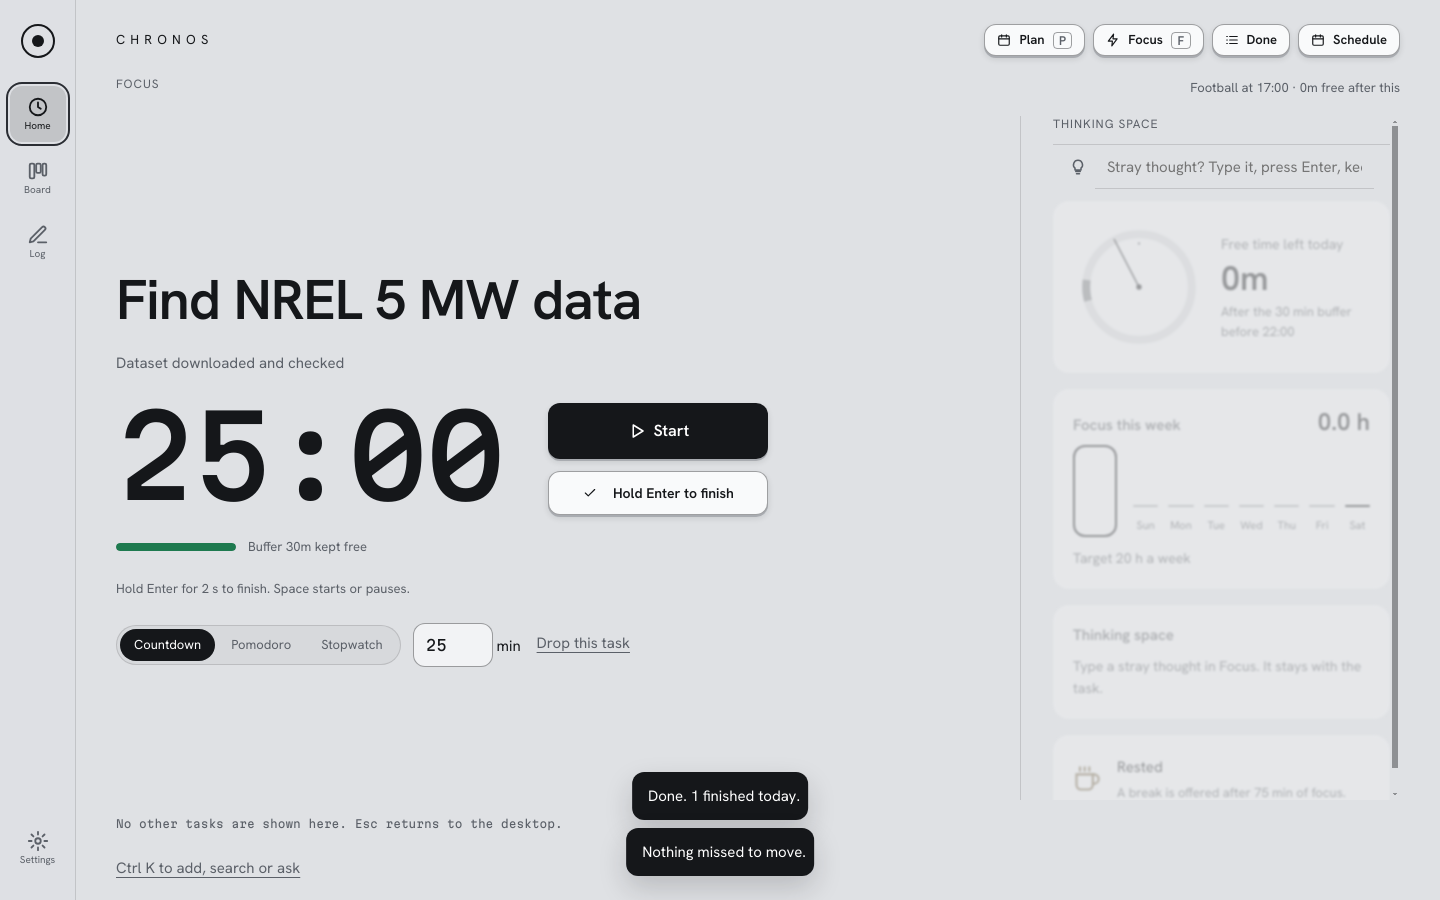
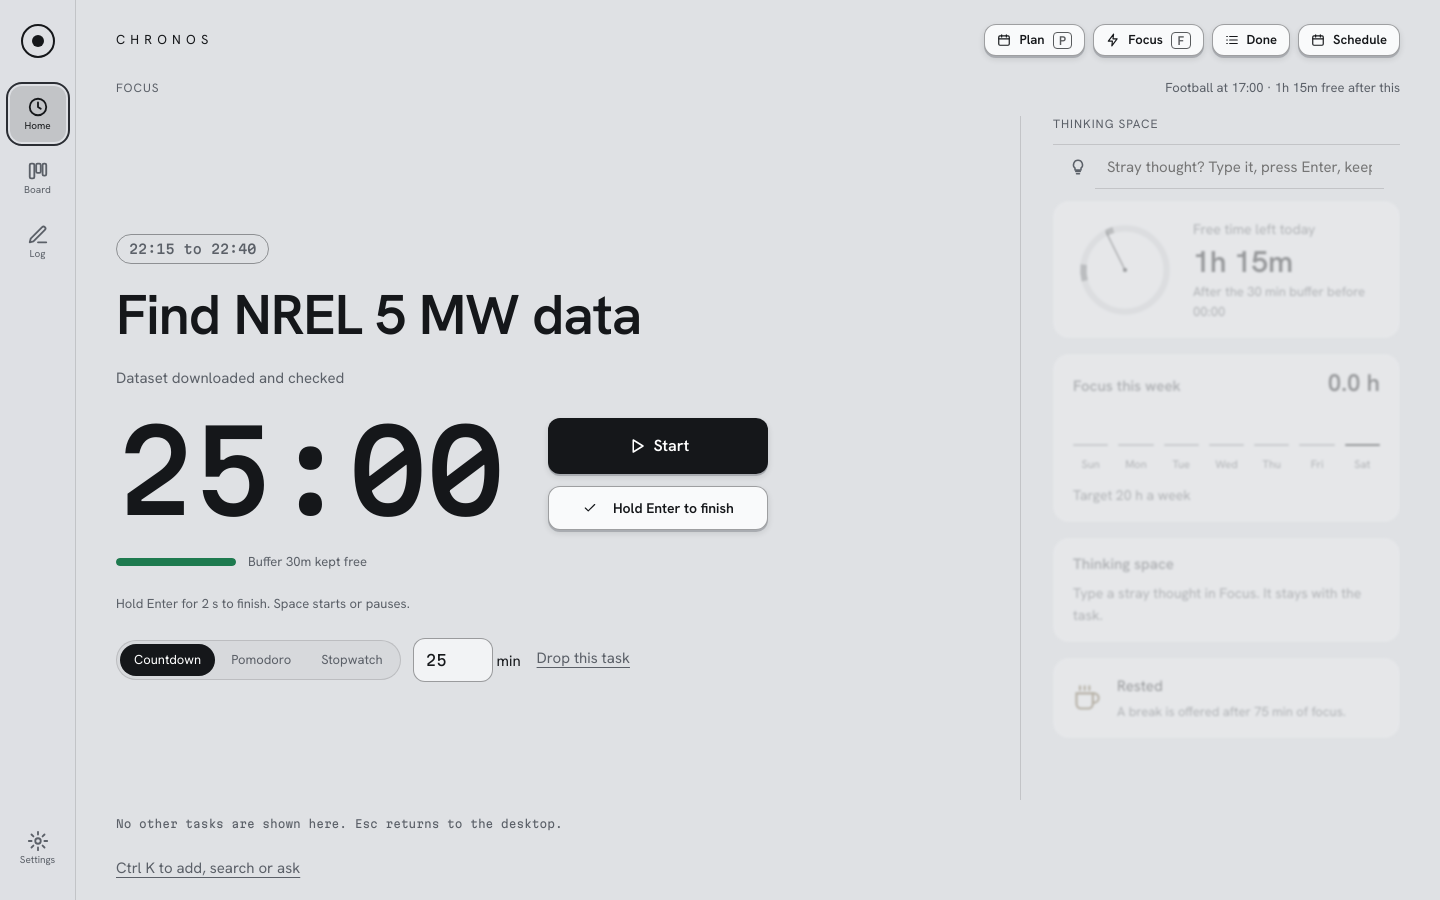
feat: checkpoint C - UI rebuild on theme tokens (home, focus, runway DnD, planning, widgets, moments)
Claude-Session: https://claude.ai/code/session_018cJn4UApyo1Ujqi9oVbNq8

diff --git a/src/renderer/styles/screens.css b/src/renderer/styles/screens.css
@@ -39,16 +39,16 @@ body { background-color: var(--c-ground); }
 /* ---- Widgets ---- */
 .widgets { display: flex; flex-direction: column; gap: 16px; min-height: 0; transition: opacity var(--dur-base) var(--ease), filter var(--dur-base) var(--ease); }
 .widgets.dim { opacity: var(--focus-widget-opacity); filter: blur(var(--focus-widget-blur)) saturate(.4); pointer-events: none; }
-.widget { border: 1px solid var(--c-line); border-radius: var(--r-lg); background: var(--c-panel); padding: 20px; display: flex; flex-direction: column; gap: 10px; }
+.widget { border: 1px solid var(--c-line); border-radius: var(--r-lg); background: var(--c-panel); padding: 16px 20px; display: flex; flex-direction: column; gap: 8px; }
 .widget h2 { font: 600 15px/20px var(--font-text); color: var(--c-text-2); }
 .widget p { font-size: 14px; line-height: 22px; }
 .widget p.first { color: var(--c-text); }
 .w-day, .w-wellness { flex-direction: row; align-items: center; gap: 16px; }
-.w-day svg { width: 132px; height: 132px; flex: none; }
+.w-day svg { width: 104px; height: 104px; flex: none; }
 .w-body { display: flex; flex-direction: column; gap: 4px; min-width: 0; }
 .w-label { font-size: 14px; color: var(--c-text-2); }
 .w-label.strong { font-size: 15px; color: var(--c-text); }
-.w-big { font: 600 34px/1.1 var(--font-display); font-variant-numeric: var(--num-variant); }
+.w-big { font: 600 30px/1.1 var(--font-display); font-variant-numeric: var(--num-variant); }
 .w-big.sm { font-size: 24px; }
 .w-sub { font-size: 13px; line-height: 20px; color: var(--c-text-3); }
 .w-head { display: flex; justify-content: space-between; align-items: baseline; }
@@ -62,13 +62,13 @@ body { background-color: var(--c-ground); }
 .dial-fill { fill: none; stroke: var(--c-accent-hover); stroke-width: 3; stroke-linecap: round; transition: stroke-dasharray 1.2s var(--ease); }
 .dial-hand { stroke: var(--c-now); stroke-width: 2; }
 .dial-pivot { fill: var(--c-now); }
-.w-chart { display: flex; gap: 16px; align-items: flex-end; height: 92px; }
+.w-chart { display: flex; gap: 16px; align-items: flex-end; height: 72px; }
 .bars { flex: 1; display: grid; grid-template-columns: repeat(7, minmax(0, 1fr)); gap: 10px; height: 100%; }
 .bar-col { display: flex; flex-direction: column; align-items: center; justify-content: flex-end; gap: 6px; height: 100%; }
 .bar-col i { display: block; width: 100%; border-radius: 4px; background: color-mix(in srgb, var(--c-accent) 35%, transparent); max-height: calc(100% - 20px); }
 .bar-col i.today { background: var(--c-accent); }
 .bar-col span { font-size: 11px; color: var(--c-text-3); }
-.cell { position: relative; width: 44px; height: 100%; border: 2px solid var(--c-accent); border-radius: 12px; overflow: hidden; flex: none; }
+.cell { position: relative; width: 28px; height: 100%; border: 2px solid var(--c-accent); border-radius: 12px; overflow: hidden; flex: none; }
 .cell i { position: absolute; left: 4px; right: 4px; bottom: 4px; border-radius: 7px; background: linear-gradient(0deg, var(--c-accent), var(--c-accent-hover)); transition: height 1.2s var(--ease); }
 .w-momentum.ignited { border-color: var(--c-warn); }
 .w-momentum.ignited .w-sub { color: var(--c-warn); }
@@ -79,7 +79,7 @@ body { background-color: var(--c-ground); }
 
 /* ---- Focus ---- */
 .focus { flex: 1; min-height: 0; display: grid; grid-template-columns: minmax(0, 1fr) 380px; grid-template-rows: auto minmax(0, 1fr) auto; gap: 16px 56px; overflow: hidden auto; }
-.focus-top { grid-column: 1 / -1; display: flex; justify-content: space-between; gap: 16px; font-size: 13px; }
+.focus-top { grid-column: 1 / -1; display: flex; align-items: baseline; justify-content: space-between; gap: 16px; font-size: 13px; }
 .stage { align-self: center; display: flex; flex-direction: column; align-items: flex-start; gap: 20px; padding: 0; max-width: 980px; min-width: 0; }
 .focus-title { font: 600 clamp(30px, 4vw, 56px)/1.1 var(--font-display); letter-spacing: -.02em; overflow-wrap: anywhere; }
 .focus-fc { color: var(--c-text-2); max-width: 60ch; }
@@ -182,8 +182,13 @@ html[data-reactive-data="on"]:not([data-motion="off"]) .w-momentum.ignited .w-su
 [data-signature="slab-monolith"] .btn-ghost { background: transparent; border-width: 1.5px; }
 /* Gargantua: the ring is the page; title under it, widgets as a quiet strip. */
 [data-signature="accretion-ring"] .nowscreen { grid-template-columns: minmax(0, 1fr); grid-template-rows: auto minmax(0, 1fr) auto; }
-[data-signature="accretion-ring"] .now-hero { border: 0; background: transparent; align-items: center; padding: 0; flex-direction: column-reverse; text-align: center; }
-[data-signature="accretion-ring"] .now-timer { flex-direction: column; flex: none; gap: 16px; }
+[data-signature="accretion-ring"] .now-hero { border: 0; background: transparent; align-items: center; padding: 0; gap: 20px; text-align: center; }
+[data-signature="accretion-ring"] .now-timer { display: contents; }
+[data-signature="accretion-ring"] .now-hero .sig { order: 1; }
+[data-signature="accretion-ring"] .now-head { order: 2; }
+[data-signature="accretion-ring"] .now-actions { order: 3; }
+[data-signature="accretion-ring"] .now-next { order: 4; }
+[data-signature="accretion-ring"] .now-clock { font-size: 15px; font-weight: 400; color: var(--c-text-2); }
 [data-signature="accretion-ring"] .now-head { flex-direction: column; align-items: center; gap: 8px; }
 [data-signature="accretion-ring"] .now-title { font-weight: 300; font-size: clamp(24px, 2.4vw, 34px); }
 [data-signature="accretion-ring"] .now-actions { flex-direction: row; justify-content: center; flex-wrap: wrap; min-width: 0; }
@@ -208,11 +213,18 @@ html[data-reactive-data="on"]:not([data-motion="off"]) .w-momentum.ignited .w-su
   .rail-end { margin-top: 0; }
   .rail-btn { min-height: 48px; width: 64px; }
   .home-main { padding: 16px 16px 8px; gap: 12px; }
+  .top { flex-wrap: wrap; gap: 8px; }
+  .top-nav { flex-wrap: wrap; justify-content: flex-start; }
   .top-nav .btn { padding: 0 10px; }
   .top-nav .btn kbd { display: none; }
   .nowscreen, [data-signature] .nowscreen { grid-template-columns: minmax(0, 1fr); grid-template-rows: auto; overflow-y: auto; }
   .now-hero, [data-signature="ticking-digits"] .now-hero { padding: 20px; }
-  .now-timer { gap: 20px; }
+  .now-timer, .timer-row { gap: 20px; flex: none; }
+  .sig-slab-monolith { flex-direction: column; align-items: flex-start; }
+  .sig { max-width: 100%; }
+  .now-hero { overflow: visible; }
+  .nowscreen { grid-auto-rows: auto; }
+  .now-clock { font-size: 26px; }
   .now-actions, .controls { min-width: 0; width: 100%; }
   .focus { grid-template-columns: minmax(0, 1fr); grid-template-rows: auto; gap: 16px; }
   .focus-side { padding-left: 0; border-left: 0; }
@@ -222,3 +234,5 @@ html[data-reactive-data="on"]:not([data-motion="off"]) .w-momentum.ignited .w-su
   .runway .rw { margin-right: 8px; padding-left: 52px; }
   [data-signature="ticking-digits"] .now-actions { flex-direction: column; }
 }
+
+.btn kbd { color: inherit; border-color: currentColor; opacity: .7; }

diff --git a/src/renderer/home/Home.tsx b/src/renderer/home/Home.tsx
@@ -36,7 +36,10 @@ type Layer = 'drawer' | 'shelf' | 'trash' | 'schedule' | 'editor' | 'palette';
 // Screens built by other parts of the app are mounted by glob so a missing file is a placeholder, not a build break.
 const boards = import.meta.glob('../board/Board.tsx');
 const palettes = import.meta.glob('../palette/Palette.tsx');
-const LazyBoard = lazy(() => (boards['../board/Board.tsx'] ? (boards['../board/Board.tsx']() as Promise<{ default?: ComponentType; Board: ComponentType }>).then((m) => ({ default: m.Board ?? m.default! })) : Promise.resolve({ default: () => <Placeholder name="Board" /> })));
+const logs = import.meta.glob('../log/Log.tsx');
+type BoardP = { onOpenLog?: (projectId: string) => void; onEnterFocus?: (taskId: string) => void };
+const LazyBoard = lazy(() => (boards['../board/Board.tsx'] ? (boards['../board/Board.tsx']() as Promise<{ Board: ComponentType<BoardP> }>).then((m) => ({ default: m.Board })) : Promise.resolve({ default: (_p: BoardP) => <Placeholder name="Board" /> })));
+const LazyLog = lazy(() => (logs['../log/Log.tsx'] ? (logs['../log/Log.tsx']() as Promise<{ Log: ComponentType<{ projectId?: string | null }> }>).then((m) => ({ default: m.Log })) : Promise.resolve({ default: (_p: { projectId?: string | null }) => <Placeholder name="Log" /> })));
 const LazyPalette = lazy(() => (palettes['../palette/Palette.tsx'] ? (palettes['../palette/Palette.tsx']() as Promise<{ Palette: ComponentType<{ open: boolean; onClose: () => void }> }>).then((m) => ({ default: m.Palette })) : Promise.resolve({ default: () => null })));
 
 function Placeholder({ name }: { name: string }) {
@@ -58,6 +61,7 @@ export function Home({ snap, revealed }: { snap: Snapshot; revealed: boolean }) 
   const [guided, setGuided] = useState(false);
   const [editEventId, setEditEventId] = useState<string | null>(null);
   const [range, setRange] = useState<'full' | 'next6'>('full');
+  const [logProject, setLogProject] = useState<string | null>(null);
   const m = dayModel(d, now, range);
   const top = layers.at(-1);
   const open = (l: Layer) => setLayers((x) => [...x.filter((y) => y !== l), l]);
@@ -96,6 +100,7 @@ export function Home({ snap, revealed }: { snap: Snapshot; revealed: boolean }) 
       }
       if (e.ctrlKey && !e.altKey && e.key.toLowerCase() === 'l') {
         e.preventDefault();
+        setLogProject(null);
         setScreen('log');
         return;
       }
@@ -154,9 +159,17 @@ export function Home({ snap, revealed }: { snap: Snapshot; revealed: boolean }) 
   ) : screen === 'settings' ? (
     <Settings snap={snap} onSchedule={() => open('schedule')} onClose={() => setScreen('home')} />
   ) : screen === 'board' ? (
-    <Suspense fallback={null}><LazyBoard /></Suspense>
+    <Suspense fallback={null}>
+      <LazyBoard
+        onOpenLog={(id) => {
+          setLogProject(id);
+          setScreen('log');
+        }}
+        onEnterFocus={() => setScreen('focus')}
+      />
+    </Suspense>
   ) : screen === 'log' ? (
-    <Placeholder name="Log" />
+    <Suspense fallback={null}><LazyLog projectId={logProject} /></Suspense>
   ) : screen === 'focus' ? (
     <FocusCore d={d} m={m} now={now} deviceId={snap.device.deviceId} onPlan={() => setScreen('plan')} />
   ) : screen === 'plan' ? (
@@ -173,7 +186,7 @@ export function Home({ snap, revealed }: { snap: Snapshot; revealed: boolean }) 
 
   return (
     <div className={`home${revealed ? ' revealed' : ''}`} data-screen={screen}>
-      <Rail screen={screen} onGo={(x) => setScreen(x)} />
+      <Rail screen={screen} onGo={(x) => (x === 'log' && setLogProject(null), setScreen(x))} />
       <div className="home-main">
         <header className="top">
           <div className="brand-row">

diff --git a/tests/main/contrast.test.ts b/tests/main/contrast.test.ts
@@ -1,35 +1,32 @@
-// WCAG 2.2 AA contrast for the token pairs the UI actually uses, in both themes (§9.12).
+// Colours come from the theme engine now (see tests/theme for the theme contrast rules). What is
+// left in tokens.css is the tag palette: data colours, which must read as marks (3:1) on the ground
+// of every launch theme in the same mode.
 import fs from 'node:fs';
 import { describe, expect, it } from 'vitest';
+import { contrast, parseColor } from '../../src/core/theme/color';
+import { findTheme } from '../../src/renderer/themes';
 
 const css = fs.readFileSync('src/renderer/public/tokens.css', 'utf8');
-
-function block(selector: string): Record<string, string> {
+function tags(selector: string): Record<string, string> {
   const start = css.indexOf(`${selector} {`);
   const body = css.slice(start, css.indexOf('}', start));
-  return Object.fromEntries([...body.matchAll(/--([\w-]+):\s*(#[0-9A-Fa-f]{6})/g)].map((m) => [m[1] as string, m[2] as string]));
+  return Object.fromEntries([...body.matchAll(/--(tag\d):\s*(#[0-9A-Fa-f]{6})/g)].map((m) => [m[1] as string, m[2] as string]));
 }
+const palettes = { dark: tags(':root[data-mode="dark"]'), light: tags(':root[data-mode="light"]') };
+const THEMES = ['tactile-instrument', 'stark-workshop', 'tars-gargantua/day', 'tars-gargantua/night'];
 
-function luminance(hex: string): number {
-  const [r, g, b] = [1, 3, 5].map((i) => parseInt(hex.slice(i, i + 2), 16) / 255).map((c) => (c <= 0.03928 ? c / 12.92 : ((c + 0.055) / 1.055) ** 2.4));
-  return 0.2126 * (r as number) + 0.7152 * (g as number) + 0.0722 * (b as number);
-}
-const ratio = (a: string, b: string) => {
-  const [hi, lo] = [luminance(a), luminance(b)].sort((x, y) => y - x) as [number, number];
-  return (hi + 0.05) / (lo + 0.05);
-};
-
-const dark = block(':root');
-const light = { ...dark, ...block(':root[data-theme="light"]') };
-const TEXT: [string, string][] = [['text', 'bg'], ['text', 's1'], ['text', 's2'], ['text-2', 'bg'], ['text-2', 's1'], ['text-2', 's2'], ['text-3', 'bg'], ['text-3', 's1'], ['on-inverse', 'inverse'], ['on-accent', 'accent'], ['accent-text', 'bg'], ['warn', 'bg'], ['warn', 's1'], ['danger', 'bg'], ['ok', 'bg']];
-// The orange accent itself is decorative (caps, the primary fill); meaningful orange marks use --now.
-const MARKS: [string, string][] = [['line-strong', 'bg'], ['ring', 'bg'], ['now', 'bg'], ...(['tag1', 'tag2', 'tag3', 'tag4', 'tag5', 'tag6', 'tag7', 'tag8'].map((t) => [t, 'bg']) as [string, string][])];
-
-describe.each([['dark', dark], ['light', light]] as const)('%s theme', (_name, t) => {
-  it.each(TEXT)('text %s on %s >= 4.5:1', (fg, bg) => {
-    expect(ratio(t[fg] as string, t[bg] as string)).toBeGreaterThanOrEqual(4.5);
+describe.each(THEMES)('tag palette on %s', (id) => {
+  const t = findTheme(id);
+  const ground = parseColor(t.color.ground);
+  it.each(Object.entries(palettes[t.mode]))('%s >= 3:1', (_n, hex) => {
+    expect(contrast(parseColor(hex)!, ground!)).toBeGreaterThanOrEqual(3);
   });
-  it.each(MARKS)('mark %s on %s >= 3:1', (fg, bg) => {
-    expect(ratio(t[fg] as string, t[bg] as string)).toBeGreaterThanOrEqual(3);
-  });
+});
+it('has all eight tags in both modes', () => {
+  expect(Object.keys(palettes.dark)).toHaveLength(8);
+  expect(Object.keys(palettes.light)).toHaveLength(8);
+});
+it('keeps no other hard-coded colour in tokens.css', () => {
+  const rest = css.replace(/--tag\d:\s*#[0-9A-Fa-f]{6};/g, '');
+  expect(rest).not.toMatch(/#[0-9A-Fa-f]{3,8}\b/);
 });

diff --git a/src/renderer/focus/FocusCore.tsx b/src/renderer/focus/FocusCore.tsx
@@ -171,7 +171,7 @@ function Stage({ d, m, now, task, deviceId }: { d: Data; m: DayModel; now: numbe
             )}
           </div>
         </div>
-        <Cushion c={cush} />
+        {s.bufferMin > 0 && <Cushion c={cush} />}
         <p id="hold-hint" className="muted hold-hint">
           Hold Enter for 2 s to finish. Space starts or pauses.
         </p>
@@ -252,13 +252,13 @@ function Stage({ d, m, now, task, deviceId }: { d: Data; m: DayModel; now: numbe
 }
 
 /** Signature size for the viewport: the theme's full size, shrunk to fit narrow windows. */
-function sizeFor(kind: string | undefined, width: number): number {
-  const full = kind === 'reactor-ring' ? 380 : kind === 'slab-monolith' ? 300 : kind === 'accretion-ring' ? 440 : 112;
-  const room = kind === 'ticking-digits' || !kind ? width * 0.2 : width - 48;
-  return Math.max(kind === 'ticking-digits' || !kind ? 56 : 220, Math.min(full, room));
+export function sizeFor(kind: string | undefined, width: number): number {
+  const full = kind === 'reactor-ring' ? 380 : kind === 'slab-monolith' ? (width < 760 ? 220 : 300) : kind === 'accretion-ring' ? 440 : 112;
+  const room = kind === 'ticking-digits' || !kind ? width * 0.2 : width - 96;
+  return Math.max(kind === 'ticking-digits' || !kind ? 56 : 200, Math.min(full, room));
 }
 
-function useWidth(): number {
+export function useWidth(): number {
   const [w, setW] = useState(() => window.innerWidth);
   useEffect(() => {
     const on = () => setW(window.innerWidth);

diff --git a/src/renderer/home/NowScreen.tsx b/src/renderer/home/NowScreen.tsx
@@ -11,6 +11,7 @@ import { activeTask, blockSpan, deriveQueue, ownsTimer, todayOf } from '../../co
 import { upcoming } from '../../core/time/schedule';
 import { localParts } from '../../core/time/zone';
 import { Icon } from '../components/Icon';
+import { sizeFor, useWidth } from '../focus/FocusCore';
 import { HoldButton, useHold } from '../focus/HoldButton';
 import { useTimer } from '../focus/TimerDigits';
 import type { DayModel } from '../runway/model';
@@ -44,7 +45,8 @@ export function NowScreen({ d, m, now, deviceId, onFocus, onPlan }: { d: Data; m
   const over = t ? t.overtime : 0;
   const main = t ? (t.remaining !== null ? (over > 0 ? over : t.remaining) : t.elapsed) : 0;
   const kind = theme?.theme.motion.signature.kind;
-  const size = kind === 'reactor-ring' ? 360 : kind === 'slab-monolith' ? 280 : kind === 'accretion-ring' ? 420 : 112;
+  const width = useWidth();
+  const size = sizeFor(kind, width > 760 ? Math.min(width, 1500) * 0.55 : width);
   const tag = task?.tagId ? d.tags[task.tagId] : undefined;
   const [lead, ...rest] = task && task.title.includes(': ') ? task.title.split(': ') : ['', task?.title ?? ''];
 

diff --git a/src/renderer/signature/SignatureTimer.tsx b/src/renderer/signature/SignatureTimer.tsx
@@ -30,12 +30,12 @@ export function formatClock(sec: number, overrun = false): string {
 
 const clamp01 = (n: number) => (Number.isFinite(n) ? Math.min(1, Math.max(0, n)) : 0);
 
-/** 0 on first paint, then the real value on the next frame, so rings "charge" on mount and ease between updates. */
+/** 0 on first paint, then the real value shortly after, so rings "charge" on mount and ease between updates. (A timeout, not rAF: nothing animates by frame loop, and a hidden window does no work.) */
 function useCharged(v: number): number {
   const [shown, setShown] = useState(0);
   useEffect(() => {
-    const id = requestAnimationFrame(() => setShown(v));
-    return () => cancelAnimationFrame(id);
+    const id = window.setTimeout(() => setShown(v), 16);
+    return () => window.clearTimeout(id);
   }, [v]);
   return shown;
 }

diff --git a/src/renderer/widgets/Widgets.tsx b/src/renderer/widgets/Widgets.tsx
@@ -21,7 +21,8 @@ const MIN = 60_000;
 export function Widgets({ d, m, now, task, dim }: { d: Data; m: DayModel; now: number; task: Task | undefined; dim?: boolean }) {
   const s = settingsOf(d);
   const theme = useOptionalTheme();
-  const reactive = !!theme && !theme.motionOff && theme.energy.reactiveData === true;
+  // Energy layers are Stark's (reactor-ring) and each sits behind its own switch.
+  const reactive = !!theme && !theme.motionOff && theme.theme.motion.signature.kind === 'reactor-ring' && theme.energy.reactiveData === true;
   const w = s.widgets;
   if (!w.day && !w.momentum && !w.notes && !w.wellness) return null;
   return (

diff --git a/src/renderer/styles/app.css b/src/renderer/styles/app.css
@@ -6,7 +6,7 @@
 html, body { margin: 0; height: 100%; }
 ::selection { background: var(--c-selection); color: var(--c-ground); }
 input, textarea { caret-color: var(--c-accent); }
-* { scrollbar-width: thin; scrollbar-color: var(--c-line-strong) transparent; }
+* { scrollbar-width: thin; scrollbar-color: var(--c-line) transparent; }
 body { background: var(--bg); color: var(--text); font: 400 15px/24px var(--font-sans); -webkit-font-smoothing: antialiased; overflow: hidden; }
 #root { height: 100%; }
 button, input, select, textarea { font: inherit; color: inherit; }

diff --git a/decision.md b/decision.md
@@ -322,3 +322,15 @@ No synced field can hold a theme (`settings.customTheme` is a 64x64-character st
 
 ### D-151 Main-side gaps found by Settings
 `pickSettings` in main/ipc.ts does not pass `snapMin`, `parserRules` or `parserReports`, and `validateSettings` still checks `parserRules` as the Phase 1 `{keyword, kind}`. Until main accepts the parser's `ParserRule` shape and these three fields, the snap control, rule delete/import and "Clear reports" are wired (settings.update) but refused or ignored.
+
+### D-152 UI shell: rail, Home = Now, Plan and Focus one key away
+The renderer is a rail (Home, Board, Log, Settings) plus screens; Home shows one task (title, signature timer, Start/Pause, Hold Enter), Next and time left, with the widgets beside it. P opens the runway/plan view, F Focus, N new task, Ctrl+K palette, Ctrl+L Log, Ctrl+Z the latest undo. Board, Log and Palette are mounted by `import.meta.glob` from `../board/Board`, `../log/Log`, `../palette/Palette` so a missing file is a placeholder, not a build break. The old tokens.css palette is gone: only theme tokens (--c-*, --r-*, --font-*, --ease, --dur-*, --depth-*) style components; tokens.css keeps the tag palette (data colours) and derived aliases, and `public/boot.js` re-applies the last theme's variables before first paint (cached in localStorage; system colours on the very first launch). `npm run audit` now rejects hard-coded colours outside theme files.
+
+### D-153 Drag and drop model, undo and the three interruptions
+`runway/dnd.ts` is the pure model (snap to settings.snapMin, Alt = whole minutes, preview, intent per lane x item); `dropActions.ts` runs the commands with an explicit inverse for each, so a compound move (event to block, block to event, task to event) undoes as one toast. A moved recurring event asks "Just today" (event.editOn exception, default on Enter) or "Every week" (event.update). Unplaced events live in a "To place" tray; Enter places one in the first free gap (event.place). Only three things interrupt: an upcoming fixed event (heads-up strips), the end-of-day review (a dialog; Esc = later, once per session), and the break prompt (only when `breakDue` says so). The morning plan is a quiet card on Home, not an interruption; Enter accepts (plan.auto, undoable as one action).
+
+### D-154 Focus keys and the buffer cushion
+Space and hold-Enter are a window-level listener on Focus (`focus/keys.ts`), ignoring text fields, open dialogs and other focused controls, so they work with no click first. Space only toggles; Enter feeds the existing 2 s hold (early release drains). The cushion is the day-end buffer: full on time, shrinking with the larger of timer overtime and time past the block end, then "Buffer used up, N over".
+
+### D-155 Energy layers and moments
+Energy layers (living reactor, holographic depth, reactive data) apply to the reactor-ring (Stark) only, each behind its settings.energy switch and `data-motion="off"`. Tilt follows pointermove (no rAF), assembly is a CSS scan-line clip. Block start/finish moments are CSS/SVG overlays that never take input: Tactile has none (micro-interactions only), Stark follows StarkMoments, TARS the Flight bar and stamp, Gargantua the ring draw and flare. Sound cues fire on start/finish honouring settings.sound and muteInFocus, with or without motion. SignatureTimer's requestAnimationFrame was replaced by a timeout so the audit rule holds.

diff --git a/log.md b/log.md
@@ -84,3 +84,5 @@ Keeps the AI on track. Update at the end of every work session.
 - 2026-11-14 (Checkpoint B, main side): DONE undo tokens (`window.chronos.undo`), overlay/notepad/palette windows (`windows.html`; widget + capture removed), `<Palette open onClose/>`, global Ctrl+Alt+K, `add_task text`, `idea.edit` IPC, lazy `dist/parser.js`, desktop layer (koffi) SHIPPED OFF (D-143..D-147). NEXT: Home mounts Palette on Ctrl+K; run `docs/WINDOWS_CHECKLIST.md` "Checkpoint B" then flip `liveOnDesktop` default. KNOWN: scripts/smoke.mjs still looks for `widget.html`; `styles/widget.css` is orphaned; Settings still labels the capture shortcut "Quick capture" (it opens the notepad) and has no switches for liveOnDesktop / overlayHideInFullscreen.
 
 - 2026-11-14 (Checkpoint C, Settings + Board): DONE `src/renderer/settings/*` (six sections + Experimental), `schedule/Timetable.tsx` (+ timetable.ts, seed), `src/core/board` + `tests/board` (11 tests), `src/renderer/board/Board.tsx`. Verified in a throwaway http harness at 1440 and 390 px in tactile and stark (deleted). PARTIAL: snapMin, parser rule edits and report clearing need main/ipc.ts + validation changes (D-above). Next: hub mounts `Settings`, `Board`, passes `useCustomThemes()` to ThemeProvider and `loadBells()`/`timetableFor()` to the parser context.
+
+- 2026-11-14 (Checkpoint C, UI rebuild): DONE ThemeProvider wiring (main.tsx, boot.js), rail + Home/Now + Focus + Plan screens, runway drag and drop (dnd.ts, dropActions.ts, To place tray, recurring chooser, keyboard nudge), planning UI (morning card, review dialog, break card, Re-plan), widgets (Day, Momentum, Notes, Wellness), moments + energy layers, tests (tests/renderer: dnd, widgetStats, focusKeys; contrast.test.ts now checks the tag palette), audit rule for hard-coded colours, smoke.mjs rewritten (screenshots in docs/screens/theme-*). Next: review pass on moments in a real run, Windows checks. Known: LookSection.tsx and log/Log.tsx trip the new audit rules (not mine); Ctrl+Z only undoes toast-backed actions.
